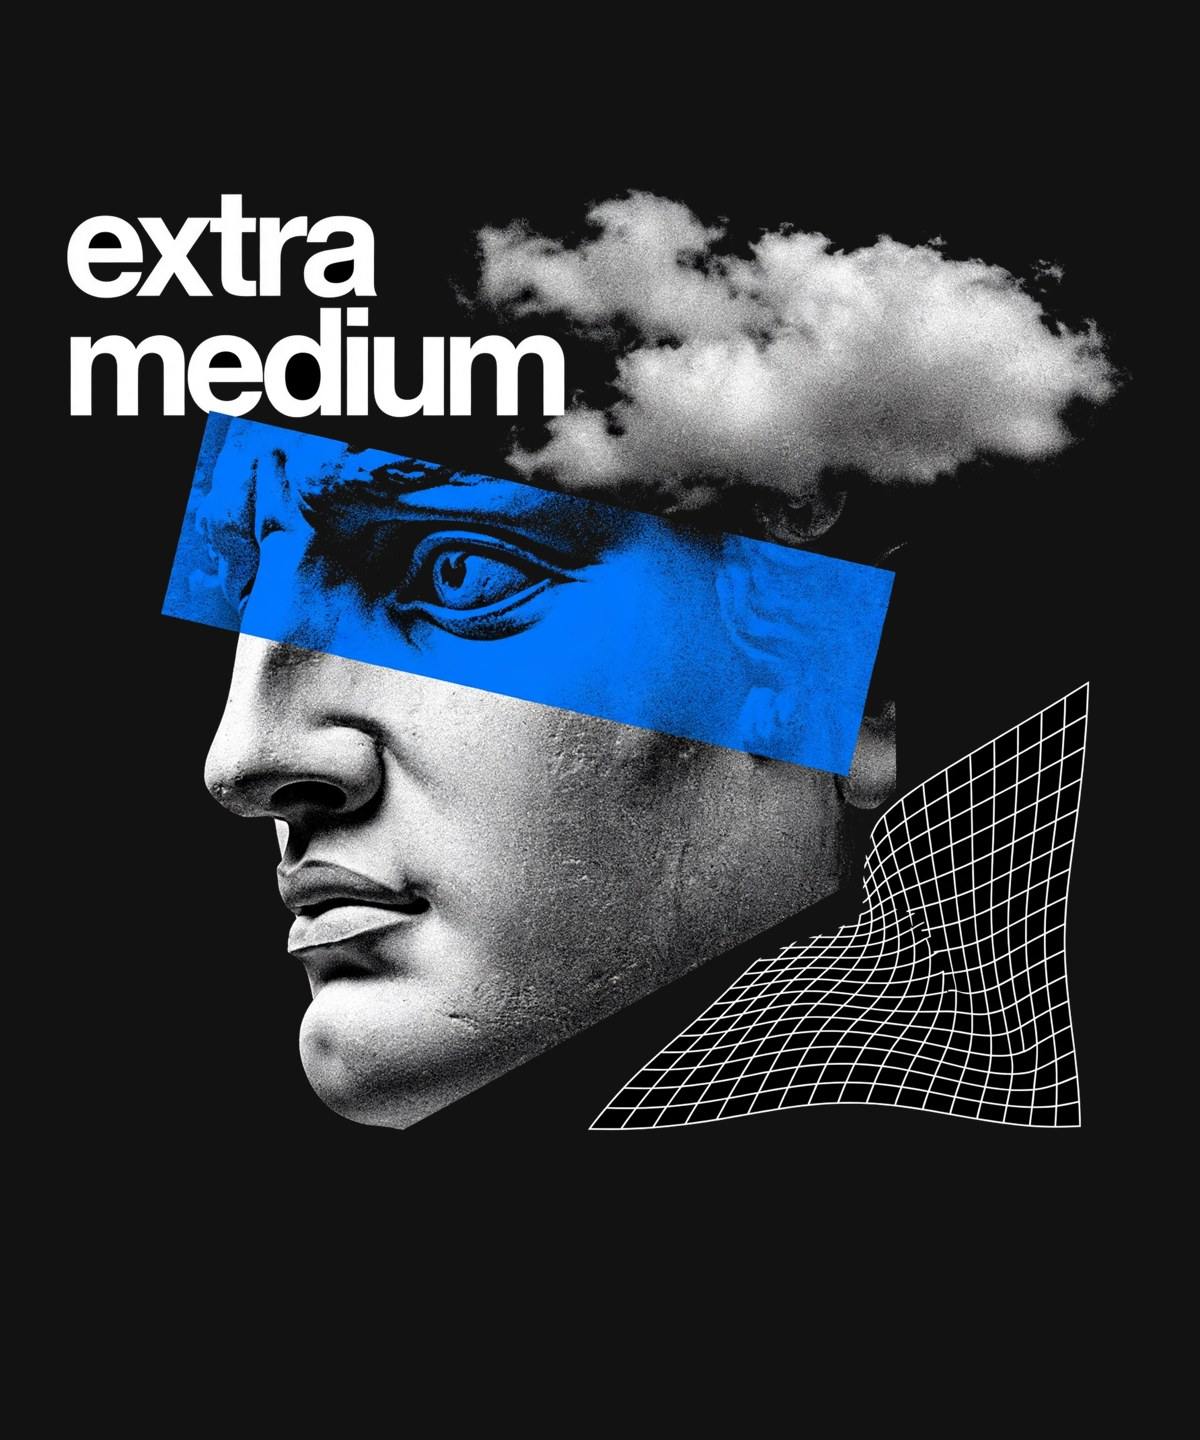
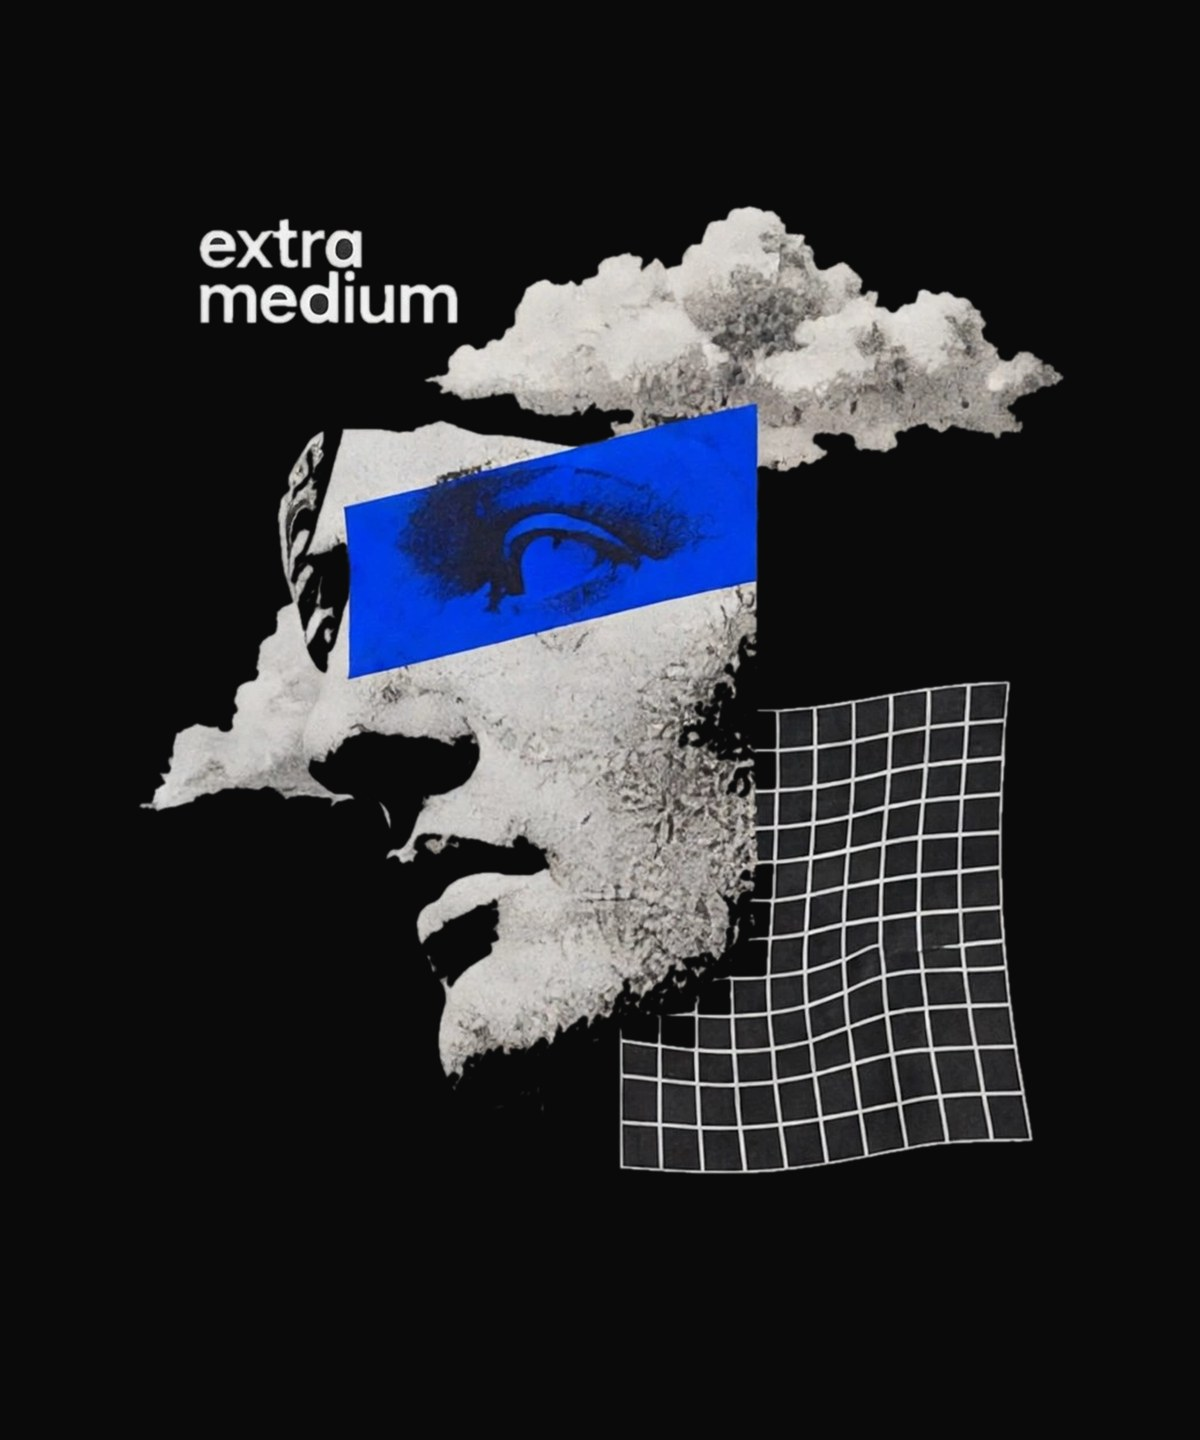
Cloud Tee print now matches the shirt (art extracted from the shirt photo, Printful file 1112212291 on all sizes); footer: Labs + Connect right of Explore on mobile; homepage definition drops 'in Virginia Beach, Virginia'

diff --git a/index.html b/index.html
@@ -18,7 +18,7 @@
 <meta name="twitter:image" content="https://xmedium.co/assets/img/og-collage.jpg">
 <meta name="theme-color" content="#f5f1ea">
 <link rel="icon" href="/favicon.ico" sizes="any"><link rel="icon" type="image/png" href="/assets/img/em-icon-shout.png">
-<link rel="stylesheet" href="/assets/css/site.css?v=22">
+<link rel="stylesheet" href="/assets/css/site.css?v=23">
 <link rel="preconnect" href="https://fonts.googleapis.com"><link rel="preconnect" href="https://fonts.gstatic.com" crossorigin><link href="https://fonts.googleapis.com/css2?family=Archivo:wght@500;700;900&family=Instrument+Serif:ital@0;1&display=swap" rel="stylesheet">
 <script type="application/ld+json">
 {"@context":"https://schema.org","@graph":[
@@ -85,7 +85,7 @@
 <svg class="badge-rot" viewBox="0 0 100 100" aria-hidden="true"><defs><path id="circ" d="M50,50 m-38,0 a38,38 0 1,1 76,0 a38,38 0 1,1 -76,0"/></defs><circle cx="50" cy="50" r="49" fill="#17130e"/><text fill="#f5f1ea" font-size="10.5" font-weight="700" letter-spacing="2.5"><textPath href="#circ">EXTRA MEDIUM &#8226; STUDIO &amp; LABS &#8226; </textPath></text><circle cx="50" cy="50" r="5" fill="#c2187a"/></svg>
 <figure class="frame bleed rv"><div class="layers" data-layers><img class="lbg" src="/assets/img/collage-home-bg.jpg" alt="" aria-hidden="true"><img class="lrest" src="/assets/img/collage-home-rest.webp" alt="" aria-hidden="true"><img class="lp" src="/assets/img/collage-home-s1.webp" data-dx="18" data-dy="-58" data-rot="6" alt="Black and white collage of a marble statue head merged with a bird, over a magenta field"><img class="lp" src="/assets/img/collage-home-s2.webp" data-dx="-46" data-dy="2" data-rot="-3" alt="" aria-hidden="true"><img class="lp" src="/assets/img/collage-home-s3.webp" data-dx="26" data-dy="56" data-rot="-6" alt="" aria-hidden="true"></div></figure>
 </div>
-<p class="def rv"><b>Extra Medium</b> is a founder-led marketing agency, fractional CMO practice and product lab in Virginia Beach, Virginia. We launch, reinvent and grow businesses &mdash; brand, creative, growth and technology under one roof &mdash; and through Extra Medium Labs we build and operate our own products, led by Magpie, the local creator marketing platform.</p>
+<p class="def rv"><b>Extra Medium</b> is a founder-led marketing agency, fractional CMO practice and product lab. We launch, reinvent and grow businesses &mdash; brand, creative, growth and technology under one roof &mdash; and through Extra Medium Labs we build and operate our own products, led by Magpie, the local creator marketing platform.</p>
 <div class="facts rv"><span>20+ years, every side of the table</span><span>Virginia Beach &middot; Chicago &middot; London</span><span>Clients: startups to Fortune 100</span></div>
 </div></section>
 <div class="divider" aria-hidden="true"><span class="dshape d-disc"></span><span class="dshape d-bar"></span><span class="dshape d-spark"></span><span class="dshape d-tri"></span><span class="dshape d-ring"></span></div>

diff --git a/404.html b/404.html
@@ -1,6 +1,6 @@
 <!DOCTYPE html>
 <html lang="en"><head><meta charset="UTF-8"><meta name="viewport" content="width=device-width, initial-scale=1.0">
-<title>Not found | Extra Medium</title><link rel="icon" href="/favicon.ico" sizes="any"><link rel="icon" type="image/png" href="/assets/img/em-icon-shout.png"><link rel="stylesheet" href="/assets/css/site.css?v=22">
+<title>Not found | Extra Medium</title><link rel="icon" href="/favicon.ico" sizes="any"><link rel="icon" type="image/png" href="/assets/img/em-icon-shout.png"><link rel="stylesheet" href="/assets/css/site.css?v=23">
 <link href="https://fonts.googleapis.com/css2?family=Archivo:wght@500;700;900&family=Instrument+Serif:ital@0;1&display=swap" rel="stylesheet"></head>
 <body><section class="phero"><div class="wrap"><p class="kick">404</p><h1>This page is a Small. <span class="it">We don&rsquo;t stock those.</span></h1>
 <p class="lede">It doesn&rsquo;t exist anymore &mdash; the site was rebuilt around the work and our flagship product. Try one of these:</p>

diff --git a/about/index.html b/about/index.html
@@ -18,7 +18,7 @@
 <meta name="twitter:image" content="https://xmedium.co/assets/img/og-collage.jpg">
 <meta name="theme-color" content="#f5f1ea">
 <link rel="icon" href="/favicon.ico" sizes="any"><link rel="icon" type="image/png" href="/assets/img/em-icon-shout.png">
-<link rel="stylesheet" href="/assets/css/site.css?v=22">
+<link rel="stylesheet" href="/assets/css/site.css?v=23">
 <link rel="preconnect" href="https://fonts.googleapis.com"><link rel="preconnect" href="https://fonts.gstatic.com" crossorigin><link href="https://fonts.googleapis.com/css2?family=Archivo:wght@500;700;900&family=Instrument+Serif:ital@0;1&display=swap" rel="stylesheet">
 <script type="application/ld+json">
 {"@context":"https://schema.org","@graph":[

diff --git a/ai-marketing-consulting/index.html b/ai-marketing-consulting/index.html
@@ -18,7 +18,7 @@
 <meta name="twitter:image" content="https://xmedium.co/assets/img/og-collage.jpg">
 <meta name="theme-color" content="#f5f1ea">
 <link rel="icon" href="/favicon.ico" sizes="any"><link rel="icon" type="image/png" href="/assets/img/em-icon-shout.png">
-<link rel="stylesheet" href="/assets/css/site.css?v=22">
+<link rel="stylesheet" href="/assets/css/site.css?v=23">
 <link rel="preconnect" href="https://fonts.googleapis.com"><link rel="preconnect" href="https://fonts.gstatic.com" crossorigin><link href="https://fonts.googleapis.com/css2?family=Archivo:wght@500;700;900&family=Instrument+Serif:ital@0;1&display=swap" rel="stylesheet">
 <script type="application/ld+json">
 {"@context":"https://schema.org","@graph":[

diff --git a/answers/index.html b/answers/index.html
@@ -18,7 +18,7 @@
 <meta name="twitter:image" content="https://xmedium.co/assets/img/og-collage.jpg">
 <meta name="theme-color" content="#f5f1ea">
 <link rel="icon" href="/favicon.ico" sizes="any"><link rel="icon" type="image/png" href="/assets/img/em-icon-shout.png">
-<link rel="stylesheet" href="/assets/css/site.css?v=22">
+<link rel="stylesheet" href="/assets/css/site.css?v=23">
 <link rel="preconnect" href="https://fonts.googleapis.com"><link rel="preconnect" href="https://fonts.gstatic.com" crossorigin><link href="https://fonts.googleapis.com/css2?family=Archivo:wght@500;700;900&family=Instrument+Serif:ital@0;1&display=swap" rel="stylesheet">
 <script type="application/ld+json">
 {"@context":"https://schema.org","@graph":[

diff --git a/contact/index.html b/contact/index.html
@@ -18,7 +18,7 @@
 <meta name="twitter:image" content="https://xmedium.co/assets/img/og-collage.jpg">
 <meta name="theme-color" content="#f5f1ea">
 <link rel="icon" href="/favicon.ico" sizes="any"><link rel="icon" type="image/png" href="/assets/img/em-icon-shout.png">
-<link rel="stylesheet" href="/assets/css/site.css?v=22">
+<link rel="stylesheet" href="/assets/css/site.css?v=23">
 <link rel="preconnect" href="https://fonts.googleapis.com"><link rel="preconnect" href="https://fonts.gstatic.com" crossorigin><link href="https://fonts.googleapis.com/css2?family=Archivo:wght@500;700;900&family=Instrument+Serif:ital@0;1&display=swap" rel="stylesheet">
 <script type="application/ld+json">
 {"@context":"https://schema.org","@graph":[

diff --git a/fractional-cmo-charlottesville/index.html b/fractional-cmo-charlottesville/index.html
@@ -18,7 +18,7 @@
 <meta name="twitter:image" content="https://xmedium.co/assets/img/og-collage.jpg">
 <meta name="theme-color" content="#f5f1ea">
 <link rel="icon" href="/favicon.ico" sizes="any"><link rel="icon" type="image/png" href="/assets/img/em-icon-shout.png">
-<link rel="stylesheet" href="/assets/css/site.css?v=22">
+<link rel="stylesheet" href="/assets/css/site.css?v=23">
 <link rel="preconnect" href="https://fonts.googleapis.com"><link rel="preconnect" href="https://fonts.gstatic.com" crossorigin><link href="https://fonts.googleapis.com/css2?family=Archivo:wght@500;700;900&family=Instrument+Serif:ital@0;1&display=swap" rel="stylesheet">
 <script type="application/ld+json">
 {"@context":"https://schema.org","@graph":[

diff --git a/fractional-cmo-chicago/index.html b/fractional-cmo-chicago/index.html
@@ -18,7 +18,7 @@
 <meta name="twitter:image" content="https://xmedium.co/assets/img/og-collage.jpg">
 <meta name="theme-color" content="#f5f1ea">
 <link rel="icon" href="/favicon.ico" sizes="any"><link rel="icon" type="image/png" href="/assets/img/em-icon-shout.png">
-<link rel="stylesheet" href="/assets/css/site.css?v=22">
+<link rel="stylesheet" href="/assets/css/site.css?v=23">
 <link rel="preconnect" href="https://fonts.googleapis.com"><link rel="preconnect" href="https://fonts.gstatic.com" crossorigin><link href="https://fonts.googleapis.com/css2?family=Archivo:wght@500;700;900&family=Instrument+Serif:ital@0;1&display=swap" rel="stylesheet">
 <script type="application/ld+json">
 {"@context":"https://schema.org","@graph":[

diff --git a/fractional-cmo-cost/index.html b/fractional-cmo-cost/index.html
@@ -18,7 +18,7 @@
 <meta name="twitter:image" content="https://xmedium.co/assets/img/og-collage.jpg">
 <meta name="theme-color" content="#f5f1ea">
 <link rel="icon" href="/favicon.ico" sizes="any"><link rel="icon" type="image/png" href="/assets/img/em-icon-shout.png">
-<link rel="stylesheet" href="/assets/css/site.css?v=22">
+<link rel="stylesheet" href="/assets/css/site.css?v=23">
 <link rel="preconnect" href="https://fonts.googleapis.com"><link rel="preconnect" href="https://fonts.gstatic.com" crossorigin><link href="https://fonts.googleapis.com/css2?family=Archivo:wght@500;700;900&family=Instrument+Serif:ital@0;1&display=swap" rel="stylesheet">
 <script type="application/ld+json">
 {"@context":"https://schema.org","@graph":[

diff --git a/fractional-cmo-for-small-business/index.html b/fractional-cmo-for-small-business/index.html
@@ -18,7 +18,7 @@
 <meta name="twitter:image" content="https://xmedium.co/assets/img/og-collage.jpg">
 <meta name="theme-color" content="#f5f1ea">
 <link rel="icon" href="/favicon.ico" sizes="any"><link rel="icon" type="image/png" href="/assets/img/em-icon-shout.png">
-<link rel="stylesheet" href="/assets/css/site.css?v=22">
+<link rel="stylesheet" href="/assets/css/site.css?v=23">
 <link rel="preconnect" href="https://fonts.googleapis.com"><link rel="preconnect" href="https://fonts.gstatic.com" crossorigin><link href="https://fonts.googleapis.com/css2?family=Archivo:wght@500;700;900&family=Instrument+Serif:ital@0;1&display=swap" rel="stylesheet">
 <script type="application/ld+json">
 {"@context":"https://schema.org","@graph":[

diff --git a/fractional-cmo-for-startups/index.html b/fractional-cmo-for-startups/index.html
@@ -18,7 +18,7 @@
 <meta name="twitter:image" content="https://xmedium.co/assets/img/og-collage.jpg">
 <meta name="theme-color" content="#f5f1ea">
 <link rel="icon" href="/favicon.ico" sizes="any"><link rel="icon" type="image/png" href="/assets/img/em-icon-shout.png">
-<link rel="stylesheet" href="/assets/css/site.css?v=22">
+<link rel="stylesheet" href="/assets/css/site.css?v=23">
 <link rel="preconnect" href="https://fonts.googleapis.com"><link rel="preconnect" href="https://fonts.gstatic.com" crossorigin><link href="https://fonts.googleapis.com/css2?family=Archivo:wght@500;700;900&family=Instrument+Serif:ital@0;1&display=swap" rel="stylesheet">
 <script type="application/ld+json">
 {"@context":"https://schema.org","@graph":[

diff --git a/fractional-cmo-hampton-roads/index.html b/fractional-cmo-hampton-roads/index.html
@@ -18,7 +18,7 @@
 <meta name="twitter:image" content="https://xmedium.co/assets/img/og-collage.jpg">
 <meta name="theme-color" content="#f5f1ea">
 <link rel="icon" href="/favicon.ico" sizes="any"><link rel="icon" type="image/png" href="/assets/img/em-icon-shout.png">
-<link rel="stylesheet" href="/assets/css/site.css?v=22">
+<link rel="stylesheet" href="/assets/css/site.css?v=23">
 <link rel="preconnect" href="https://fonts.googleapis.com"><link rel="preconnect" href="https://fonts.gstatic.com" crossorigin><link href="https://fonts.googleapis.com/css2?family=Archivo:wght@500;700;900&family=Instrument+Serif:ital@0;1&display=swap" rel="stylesheet">
 <script type="application/ld+json">
 {"@context":"https://schema.org","@graph":[
